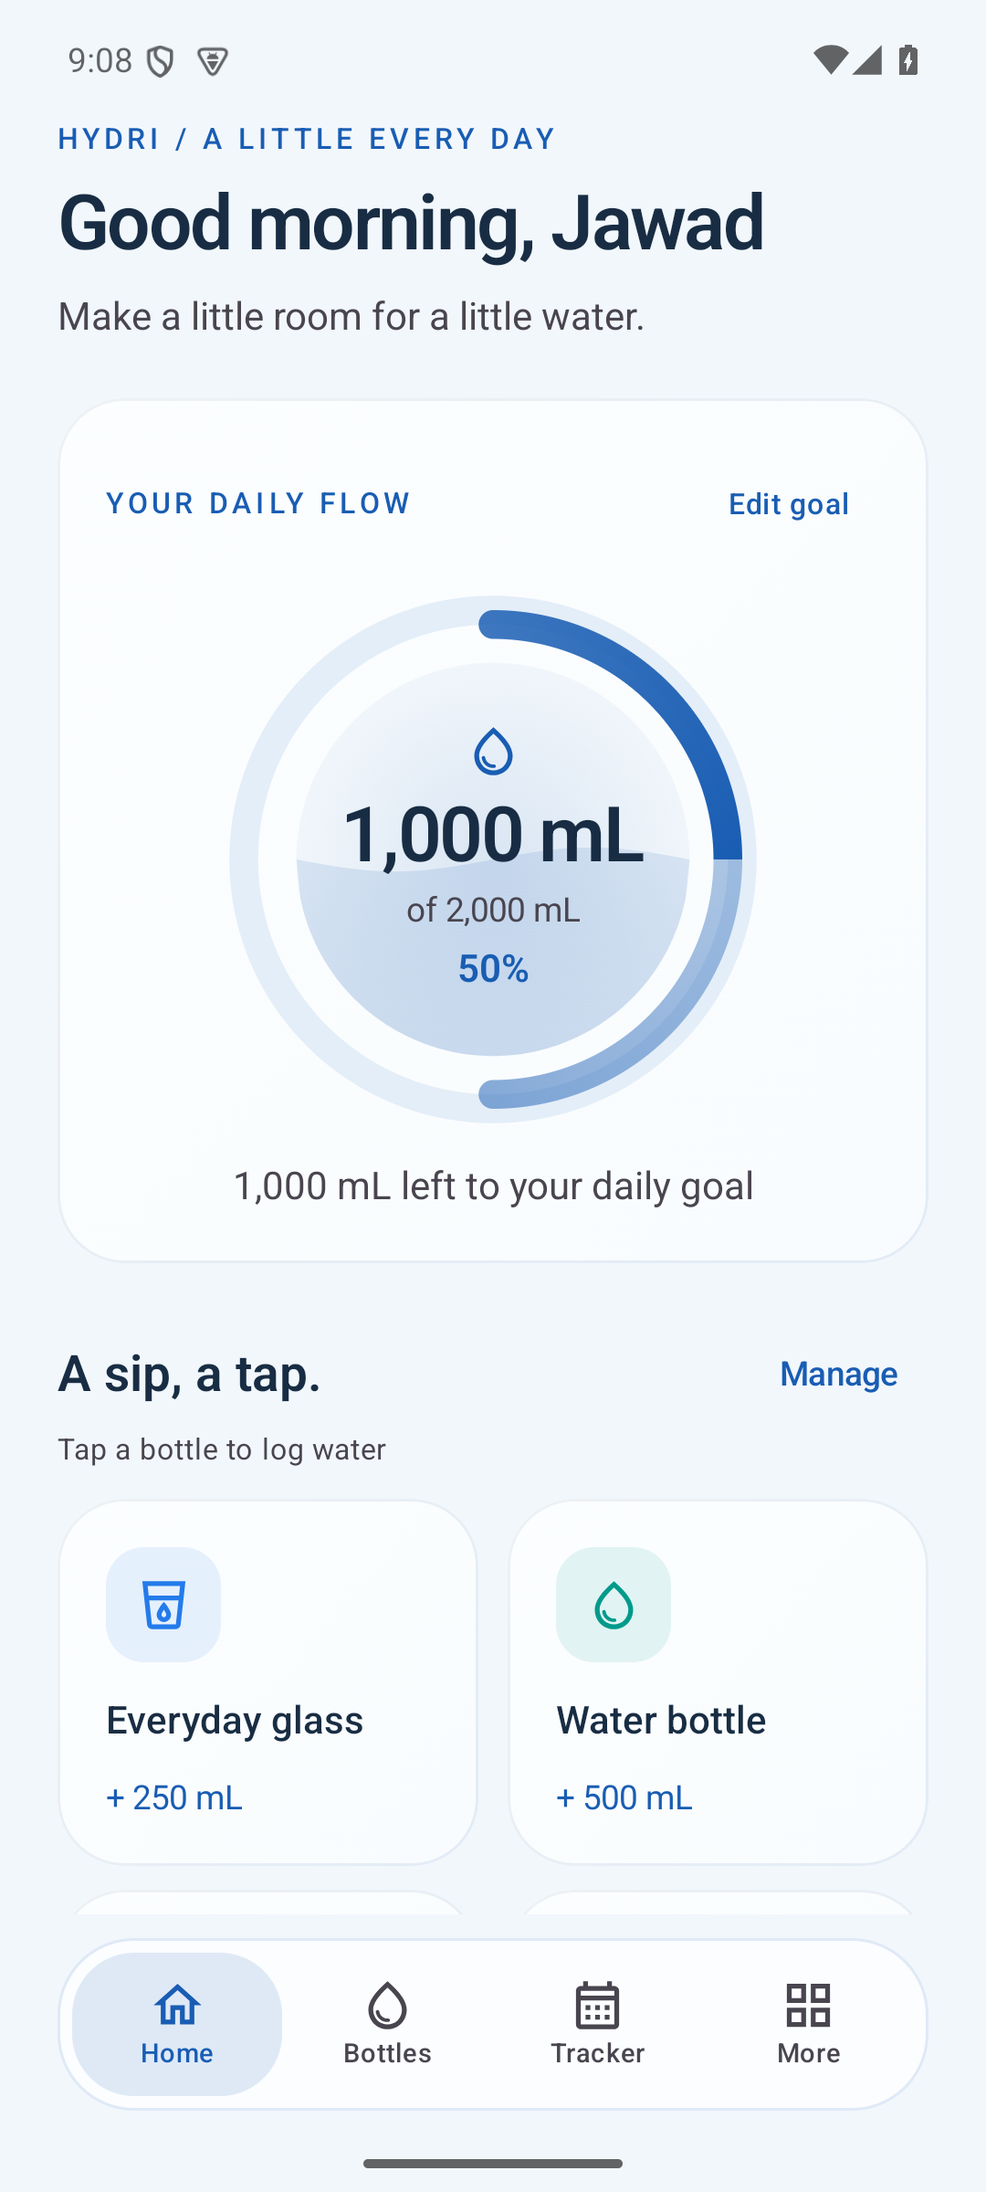
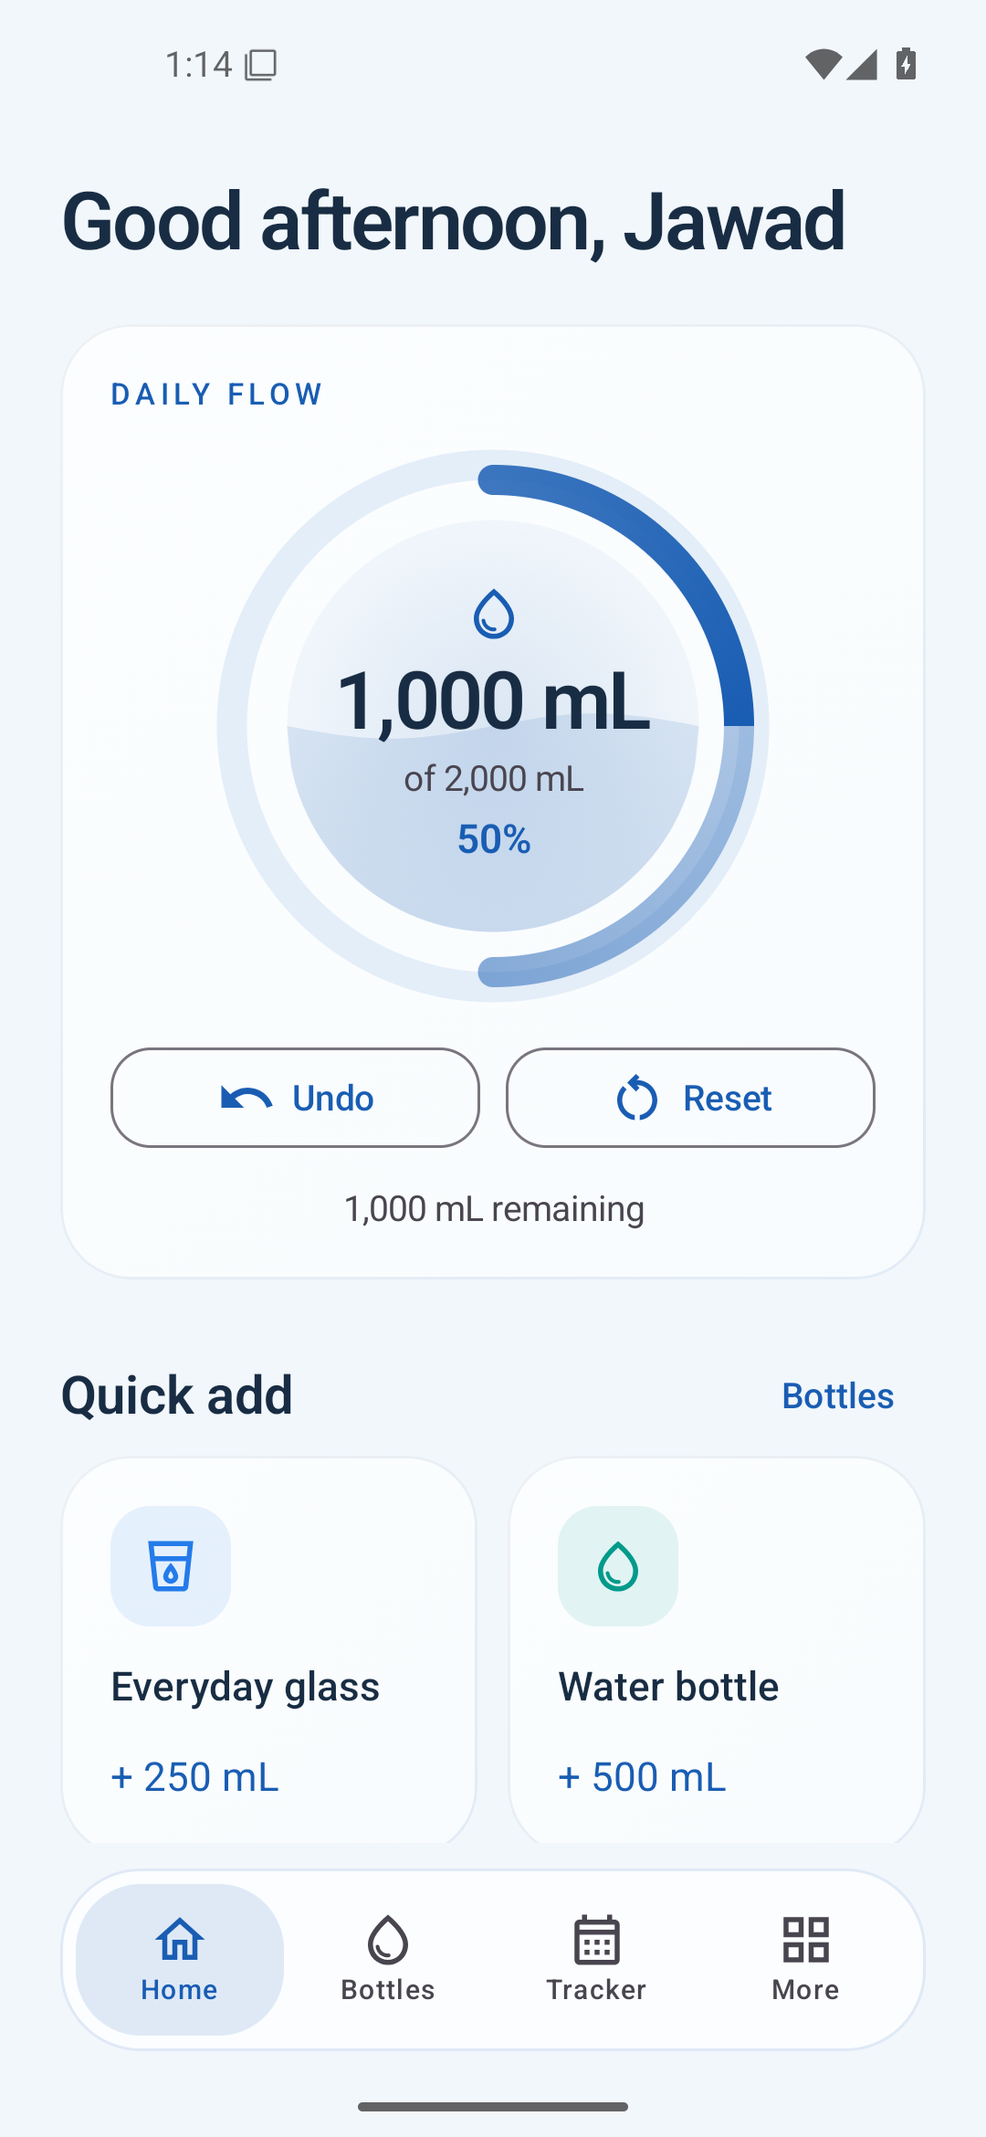
Verify release UI and document Hydri 1.1.0

diff --git a/app/src/androidTest/java/com/hydri/app/HydriFlowTest.kt b/app/src/androidTest/java/com/hydri/app/HydriFlowTest.kt
@@ -57,6 +57,8 @@ class HydriFlowTest {
 
     private fun capture(name: String) {
         rule.waitForIdle()
+        // Android window/IME animations run outside Compose's virtual test clock.
+        Thread.sleep(350)
         val image = InstrumentationRegistry.getInstrumentation().uiAutomation.takeScreenshot()
         File(context.getExternalFilesDir(null), "refinement-$name.png").outputStream().use {
             image.compress(Bitmap.CompressFormat.PNG, 100, it)
@@ -216,17 +218,21 @@ class HydriFlowTest {
         assertEquals(750_000L, b.volume)
         assertEquals(5, b.icon)
         assertEquals(3, b.color)
+        assertTrue(b.favorite)
         tab("Home")
+        await {rule.onAllNodesWithContentDescription("Log QA flask, 750 mL").fetchSemanticsNodes().isNotEmpty()}
         rule.onNodeWithContentDescription("Log QA flask, 750 mL").performScrollTo().assertExists()
         tab("Bottles")
         rule.onNodeWithContentDescription("Unfavorite QA flask").performScrollTo().performClick()
         await { runBlocking { !repo.dao.allBottles().first { it.id == b.id }.favorite } }
         tab("Home")
+        await {rule.onAllNodesWithContentDescription("Log QA flask, 750 mL").fetchSemanticsNodes().isEmpty()}
         rule.onNodeWithContentDescription("Log QA flask, 750 mL").assertDoesNotExist()
         tab("Bottles")
         rule.onNodeWithContentDescription("Favorite QA flask").performScrollTo().performClick()
         await { runBlocking { repo.dao.allBottles().first { it.id == b.id }.favorite } }
         tab("Home")
+        await {rule.onAllNodesWithContentDescription("Log QA flask, 750 mL").fetchSemanticsNodes().isNotEmpty()}
         rule.onNodeWithContentDescription("Log QA flask, 750 mL").performScrollTo().assertExists()
         runBlocking {
             repo.dao.allBottles().forEach { repo.dao.putBottle(it.copy(favorite = false)) }

diff --git a/README.md b/README.md
@@ -5,12 +5,12 @@ A native, offline water tracker built with Kotlin and Jetpack Compose. No accoun
 ## Try Hydri on your Android phone
 
 1. Open the release page on your Android phone—no GitHub sign-in is required.
-2. Open [the Android testing release](https://github.com/jawad-mohammed35/hydri-android/releases/tag/v1.0.0-test.1).
-3. Expand **Assets** and download **Hydri-1.0.0-debug.apk**. Choose the APK, not the source-code archive.
+2. Open [the Android testing release](https://github.com/jawad-mohammed35/hydri-android/releases/tag/v1.1.0).
+3. Expand **Assets** and download **Hydri-1.1.0.apk**. Choose the APK, not the source-code archive.
 4. Open the downloaded APK. If Android prompts, allow your browser or file manager to install apps, then choose **Install**.
-5. Open **Hydri** and complete onboarding. The app works offline after installation.
+5. Open **Hydri**. New installations show onboarding; upgrades keep your existing data and preferences. The app works offline after installation.
 
-Requires Android 8.0 or newer. This is a debug-signed testing pre-release. The release includes `SHA256SUMS.txt` for verifying the APK. No account or GitHub sign-in is needed to download or use Hydri.
+Requires Android 8.0 or newer. The release variant uses the same existing testing certificate as 1.0.0, allowing an in-place upgrade. It is a testing pre-release, not a production-key-signed build. The release includes `SHA256SUMS.txt` for verifying the APK. No account or GitHub sign-in is needed to download or use Hydri.
 
 ![Hydri Home](docs/home.png)
 
@@ -19,7 +19,7 @@ Requires Android 8.0 or newer. This is a debug-signed testing pre-release. The r
 1. Clone this repository, then in Android Studio choose **Open** and select its root folder (the folder containing `settings.gradle.kts`).
 2. Use JDK 17 for Gradle. Install Android SDK Platform 35 and accept SDK licenses if prompted. The Gradle wrapper downloads Gradle 8.11.1 and the pinned build dependencies on the first build. Building needs Internet access; using Hydri does not.
 3. Allow Gradle sync, select the **app** run configuration, and select an API 26+ emulator in Device Manager. API 35 is recommended for initial testing.
-4. Press **Run**. On first launch, complete the seven short setup steps.
+4. Press **Run**. On first launch, complete the five short setup steps.
 
 `local.properties` is machine-specific and ignored. Android Studio generates it automatically. On another computer, do not reuse the included local SDK path.
 
@@ -41,26 +41,26 @@ On this computer, you can also start the existing virtual device without Android
 & "$env:ANDROID_HOME\emulator\emulator.exe" -avd mihraya_test
 ```
 
-The headless emulator used for verification was stopped after testing. Hydri remains installed on that AVD with its generated sample data cleared, ready for the welcome flow when you next launch it.
+The 1.1.0 verification used a separate disposable QA emulator. Existing virtual devices and personal Hydri data were not reset.
 
-The APK is at `app/build/outputs/apk/debug/app-debug.apk`. A convenient named copy is delivered in `deliverables/` after verification.
+Debug output is at `app/build/outputs/apk/debug/app-debug.apk`. For owner release builds, run `gradlew.bat assembleRelease`; the output is `app/build/outputs/apk/release/app-release.apk`. The release task requires the original local testing key and checks its public certificate fingerprint. It refuses a missing or different key instead of generating a replacement. Keys and credentials are not stored in Git.
 
 ## Features
 
-- Seven-step setup: nickname, measurements, goal, bottle presets, reminders, appearance.
+- Five-step setup: welcome, name, live appearance preview, measurements, and preset/custom goal. Default bottles are added automatically; notifications are configured later.
 - Four floating navigation tabs: Home, Bottles, Tracker, More.
-- One-tap bottle logging, custom amounts, snackbar undo, entry edits/deletes, and manual past-day logging with date/time pickers.
+- Favorites-only quick-add, swipe-to-delete with Undo, daily Undo and confirmed today-only Reset. Glass editors support custom amounts, fixed-date/time edits, and bottle previews.
 - Bottle creation, names, volumes, seven icon choices, six colors, favorites, and reorder controls.
-- Monthly calendar, day details, daily/weekly/monthly interactive bar charts, averages, completion rates, current/longest streaks, six consistency achievements.
+- Monthly calendar, expandable sip history by date, interactive day/week/month charts, averages, completion rates, streaks, and six badges. Log past-day water from the selected calendar date.
 - Dated daily goals, themes (system/light/dark), OLED backgrounds, six accents, reduced motion, haptics, metric/US fl oz, date/time preferences.
 - Approximate WorkManager reminders, active hours, quiet hours, weekdays, stop-at-goal, evening check-in, completion notifications, sound/vibration preferences, permission-aware notifications.
 - Small and medium Glance widgets; medium includes quick-add actions for the first two favorite bottles.
-- CSV export and versioned JSON backup/restore through Android's file picker, explicit destructive confirmations, offline health reference and library acknowledgments.
+- Dedicated Notifications, Hydration Guide, Data & Backup, and About pages. CSV export and JSON backup/restore use Android's file picker, with confirmation for destructive operations.
 
 ## Data and calculation rules
 
 - Volumes use integer **microlitres**. One US fl oz = 29.5735295625 mL; input rounds to the nearest microlitre. Display rounding never rewrites stored values. Inputs accept 1–20,000 mL or equivalent. This is an input bound, not an intake recommendation.
-- Entries store an instant, original zone, and explicit local date. Traveling does not move previously logged water between days. New entries use the current zone. Historical timestamps and edits use the entry's original zone, shown in the editor and beside times when traveling. Amount-only edits preserve the original instant, including during a DST overlap. A changed date/time uses Java time's standard gap/overlap resolution.
+- Entries store an instant, original zone, and explicit local date. Traveling does not move previously logged water between days. New entries use the current zone. Historical timestamps and edits use the entry's original zone, shown in the editor and beside times when traveling. Amount-only edits preserve the original instant, including during a DST overlap. Entries keep their original calendar date when edited. New Home logs use the current local date; calendar logs use the selected day. Time edits reject nonexistent DST times instead of silently shifting dates.
 - Home follows the current local date and updates while open. Historical records are retained at midnight. Goals are effective from their stored local date until the next goal change; changing today's goal preserves earlier values. Empty dates after tracking began count as incomplete. Backdating the first record extends tracking to that date using the earliest goal.
 - A day counts once when its total meets its goal. More water earns no extra streak credit. An unfinished today does not break yesterday's ongoing streak. A missed past day does. Badges are derived from records on each update; editing or deleting entries can revoke a badge or change its unlock date. This rule is visible in Tracker.
 - Calendar weeks begin Monday. Week charts show the trailing seven days. Monthly charts show the displayed calendar month through today. Daily charts show the selected date. Averages include all tracked elapsed dates in that period, including zero-intake days and today.
@@ -70,7 +70,7 @@ The APK is at `app/build/outputs/apk/debug/app-debug.apk`. A convenient named co
 
 WorkManager survives process death and device reboot. Delivery is approximate; Doze, battery restrictions and manufacturer policies may delay it. Active/quiet hours and weekday checks use the local time at delivery, including time-zone changes. Equal start/end means the whole day; quiet hours take precedence. No selected weekdays means no reminders. Evening checks target 20:00 local and are suppressed outside the configured windows or when the goal is reached. Completion notifications fire when logging crosses today's goal, including widget logging; entry edits do not create celebrations. Undoing and recrossing can notify again.
 
-Notification permission is requested when enabling reminders or completion notifications. If blocked, use More → Android notification settings. Android owns channel preferences and can override sound/vibration settings. Hydri requests neither exact-alarm access nor broad storage access.
+Notification permission is requested when enabling reminders or completion notifications. If blocked, use More → Notifications → Android notification settings. Android owns channel preferences and can override sound/vibration settings. Hydri requests neither exact-alarm access nor broad storage access.
 
 ## Widgets
 
@@ -102,10 +102,18 @@ Developer identity is configurable in `DeveloperInfo` in `MoreScreen.kt`. Versio
 .\gradlew.bat lintDebug
 ```
 
-Device tests require an unlocked, running emulator. The end-to-end UI test **resets this app's test-device data**. Run it on an emulator, not a phone with personal history. It deliberately leaves a little sample data for inspection. Repository tests use temporary databases and restore the preferences they change.
+Device tests are guarded and skip unless explicitly enabled with `hydriQa=true`. Run them only on a disposable emulator. UI tests snapshot and restore entries, bottles, goals and preferences; they do not reset the application. Upgrade testing compares the original entries, bottle fields, goals and exact settings bytes against a captured 1.0.0 baseline.
 
-See `docs/VERIFICATION.md` for actual executed results, environment details, and remaining verification limitations. A successful build is not a substitute for the owner's testing across devices.
+To opt in for a single dedicated QA emulator, install the debug and Android-test APKs, then run:
+
+```powershell
+adb -s emulator-5580 shell am instrument -w -e hydriQa true -e class com.hydri.app.HydriFlowTest,com.hydri.app.RepositoryDeviceTest com.hydri.app.test/androidx.test.runner.AndroidJUnitRunner
+```
+
+`UpgradeDeviceTest` also requires an externally captured `upgrade-baseline.json` and skips when it is absent. Do not enable QA tests on a phone containing personal records.
+
+See `docs/VERIFICATION-1.1.0.md` for current results and `docs/VERIFICATION.md` for the original 1.0.0 verification. A successful build is not a substitute for the owner's testing across devices.
 
 ## Release status
 
-GitHub hosts the source and a debug-signed testing pre-release in the owner's public repository. APK binaries are attached to releases and excluded from source control. No release keystore or credentials are stored in the repository. Production signing, wider distribution, and the project's source license remain future owner decisions.
+GitHub hosts the source and a versioned testing pre-release in the owner's public repository. APK binaries are attached to releases and excluded from source control. No release keystore or credentials are stored in the repository. Production signing, wider distribution, and the project's source license remain future owner decisions.

diff --git a/docs/VERIFICATION-1.1.0.md b/docs/VERIFICATION-1.1.0.md
@@ -1,0 +1,62 @@
+# Hydri 1.1.0 verification — 2026-10-29
+
+## Delivered build
+
+Version **1.1.0**, version code **2**, application ID `com.hydri.app`, Android 8.0+ (API 26), target/compile SDK 35. The downloadable APK is the **release variant**, with debugging disabled. It uses the **same existing Android testing certificate** as the published 1.0.0 APK so it can update that installation without an uninstall. It is not signed with a new production identity.
+
[1 lines of base64/hex data omitted]
+
+Release signing validation checks the existing certificate on every build and fails if the key is missing or different. No key or credential was generated, replaced, or committed. APK signature verification passed with Android's `apksigner` (v2 signature). Package inspection confirmed version code/name, min/target SDK, and no debuggable flag.
+
+## Implemented refinements
+
+- Five onboarding screens: welcome, name, immediate theme preview, units, and goal. Suggested goals and a bottom Custom card remain; bottles and notifications are no longer onboarding steps. Name keyboard requests word capitalization without rewriting the input. Default bottles are initialized automatically.
+- Value-anchored, rounded translucent dropdowns. More links to Notifications, Hydration Guide, Data & Backup, and About. About puts developer details before acknowledgments; the main More footer reads the build version.
+- Home shows only favorites, with an empty state linking to Bottles. Today's sips support swipe-delete and restoration through the snackbar's Undo. Daily Flow includes Undo and confirmed today-only Reset. Home's goal editor and decorative footer are removed.
+- Custom glass editors for amounts, goals and bottles. Bottle previews reflect the entered name, volume, icon and color. Time entry is inline within the sip editor. Dates are assigned by Home/the selected calendar day, and existing entries retain their original date and zone. DST gaps are rejected; amount-only edits preserve the original instant during overlaps.
+- Tracker retains calendar/statistics and replaces always-open entry lists with expandable dated Sip History. The goal card is removed and achievements are labeled Badges. User-facing text is shorter throughout.
+
+## Executed checks
+
+- **Builds:** `assembleDebug`, `assembleRelease`, `assembleDebugAndroidTest` passed. Debug and release lint tasks passed with **zero errors**; existing tool/dependency and older-widget-attribute warnings remain documented in the reports. No additional libraries or online services were added.
+- **Unit tests:** **15 passed** (11 existing calculation tests, 4 new fixed-date/DST time tests).
+- **Actual release APK on emulator:** **12 device tests passed**. The debug instrumentation package was signed with the same certificate and used to exercise the non-debuggable release variant directly.
+- **Interaction tests (5):** onboarding and live theme changes; dropdown placement/settings subpages/goal editing; bottle preview and favorites-only Home; swipe-delete/restore, daily Undo and confirmed Reset; time/amount editing, fixed historical dates, expandable history and Badges.
+- **Repository/background tests (6):** backup/restore round trip and malformed input rejection; CSV precision; disk persistence; reminder scheduling/cancellation; widget updates; both bound widget sizes rendering and favorite quick-add; notification posting. Some individual test methods cover several of these checks.
+- **Upgrade integrity test (1):** exact field comparisons for the original entries, bottles and dated goals, plus a SHA-256 comparison of the original settings bytes.
+- **Compact display:** the onboarding scenario additionally passed at **360 × 640 dp**, normal text, with the default choices and navigation visible without a swipe.
+- **Enlarged text:** the onboarding scenario additionally passed at **360 × 640 dp, 150% font scale**, using scrolling as a fallback where needed. Navigation remained accessible with the keyboard open.
+- **Themes:** onboarding exercised Light, Dark, Follow system and OLED, including pixel checks for immediate preview and persistence after completion. Settings/goal editing were exercised in Dark/OLED; logging and bottle editors were exercised in Light.
+- **Visual checks:** selected-value menu anchoring, custom logging/time input above the keyboard, compact/large-text onboarding, Home, OLED settings and expanded history screenshots were inspected.
+
+The full release-variant run reported `OK (12 tests)`. The two extra display runs each reported `OK (1 test)`. Tests are not claimed for physical devices.
+
+## Upgrade and data safety
+
+A separate disposable `hydri_refinement_qa` AVD (API 35, x86_64) was created under the ignored local tools directory. Existing AVDs and personal app data were not reset. Version 1.0.0 was installed there and populated with synthetic fixtures. Its two entries, four bottles, dated goal and complete preferences were captured before installing 1.1.0 with `adb install -r`.
+
+The release update installed successfully using the matching signing identity. It displayed the existing name and **1,000 / 2,000 mL** total. The upgrade test then confirmed all original fields and preference bytes survived. UI tests snapshot and restore their synthetic data around each scenario. Device tests require an explicit `hydriQa=true` opt-in; they must be run only in an isolated QA emulator. Upgrade tests also require a separately captured baseline.
+
+The Room entities/schema remain at **version 1**, unchanged. Only DAO operations were added, so no migration or destructive database fallback was needed. There is no startup reset or replacement of existing user preferences.
+
+## Remaining limits
+
+- Runtime QA used one API 35 emulator in several display configurations. The owner should still verify the update on a personal phone; other Android versions, manufacturers, tablets and full TalkBack coverage were not exhaustively tested.
+- Reminder scheduling, window calculations and notification posting passed. Long-duration delivery under Doze/manufacturer restrictions was not observed during this session.
+- Backup/restore and CSV data paths passed repository tests. Dedicated page navigation passed; full interactive file-provider save/open flows were not automated for every document provider.
+- Glass styling uses native Compose surfaces, translucency, highlights and rounded shapes; live backdrop blur is not implemented.
+- One Windows Gradle cache file lock interrupted a final build attempt. Stopping the daemon and rerunning with two workers resolved it; the successful builds and tests listed above were executed afterward.
+
+## Reproduction and artifacts
+
+Build: `gradlew.bat assembleRelease testDebugUnitTest lintDebug lintRelease`. Owner release builds require the original local testing key. Other developers can use `assembleDebug` for isolated development.
+
+On a dedicated QA emulator with the matching debug test APK installed:
+
+```powershell
+adb -s emulator-5580 shell am instrument -w -e hydriQa true com.hydri.app.test/androidx.test.runner.AndroidJUnitRunner
+```
+
+The upgrade test skips without its baseline file. Source UI tests restore their snapshot after each scenario. The QA AVD retains its synthetic fixtures for reproducibility; no personal data was used.
+
+The release APK and its SHA-256 are in the GitHub release assets. The original `v1.0.0-test.1` release is retained. Source implementation commit: `414e42f` (later documentation/test-synchronization commits do not change app behavior). Raw local test/build logs remain under `.tools/` and Gradle reports under `app/build/`, excluded from Git.
